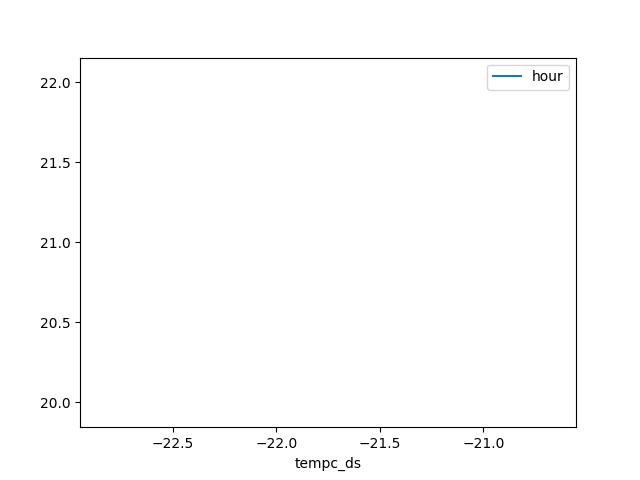
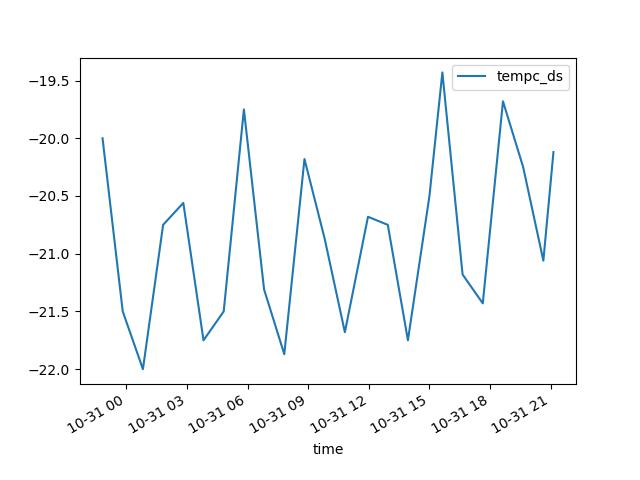
Improve table view and graph / code formatting / remove date from pdf / display last 24 results

diff --git a/send_notification.py b/send_notification.py
@@ -20,21 +20,23 @@ TODAY = datetime.now()
 
 def plot_graph_and_table_from_df(df: pd.DataFrame, client_name: str, fridge: str):
     df['tempc_ds'] = df['tempc_ds'].astype(float)
-    df['hour'] = df['time'].str.split('.').str[0].str.split(':').str[0]
-    df['time'] = df['time'].str.split('.').str[0]
-    df['hour'] = df['hour'].astype(int)
-    x, _, _, y = df.columns
+    df['time'] = df['date'] + ' ' + df['time']
+    df['time'] = pd.to_datetime(df['time'])
+
+    y, _, x = df.columns
     df.plot(x=x, y=y, kind='line')
     plt.savefig('email_attachments/graph.png')
 
     fig, ax = plt.subplots(figsize=(8, 7))
     ax.axis('off')
+
+    df = df[['time', 'tempc_ds']]
     tbl = table(
         ax,
         df,
         loc='center',
         cellLoc='center',
-        colWidths=[0.18] * len(df.columns)
+        colWidths=[0.25] * len(df.columns)
     )
     tbl.auto_set_font_size(False)
     tbl.set_fontsize(10)
@@ -49,7 +51,6 @@ def plot_graph_and_table_from_df(df: pd.DataFrame, client_name: str, fridge: str
     small_table_data = [
         ['Client', client_name],
         ['Frigider', fridge],
-        ['Data', TODAY],
     ]
     small_table = plt.table(
         cellText=small_table_data,

diff --git a/db.py b/db.py
@@ -45,7 +45,8 @@ class DatabaseClient:
                 f"dev_eui = '{appliance_id}' AND "
                 "DATE(date) >= DATE('now', '-1 day') "
             "GROUP BY temperature.date, strftime('%H', TIME(temperature.time)) "
-            "ORDER BY DATE(temperature.date) DESC, TIME(temperature.time) DESC"
+            "ORDER BY DATE(temperature.date) DESC, TIME(temperature.time) DESC "
+            "LIMIT 24;"
         )
         rows = self.cursor.execute(sql_query)
         return [LHTClientView(**row) for row in rows]
